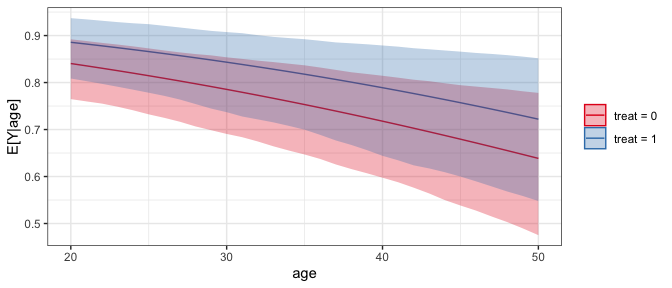
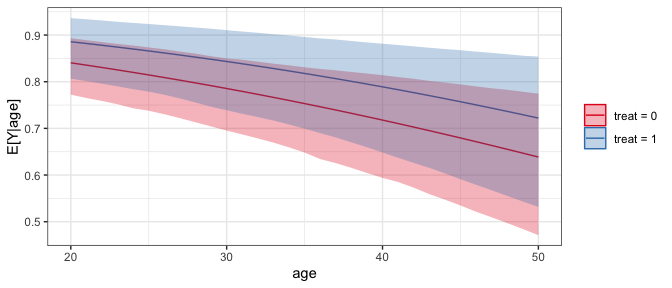
Prep for submission

diff --git a/README.md b/README.md
@@ -5,8 +5,8 @@
 
 <!-- badges: start -->
 
-[![CRAN
-status](https://www.r-pkg.org/badges/version/clarify)](https://CRAN.R-project.org/package=clarify)
+[![](https://r-pkg.org/badges/version/clarify)](https://cran.rstudio.com/package=clarify)
+[![](https://cranlogs.r-pkg.org/badges/clarify)](https://cran.rstudio.com/package=clarify)
 <!-- badges: end -->
 
 `clarify` implements simulation-based inference for computing functions
@@ -62,24 +62,27 @@ set.seed(123)
 sim_coefs <- sim(fit)
 
 # Marginal risk ratio ATT, simulation-based
-sim_est <- sim_ame(sim_coefs, var = "treat", subset = treat == 1,
-                   contrast = "RR", verbose = FALSE)
+sim_est <- sim_ame(sim_coefs,
+                   var = "treat",
+                   subset = treat == 1,
+                   contrast = "RR",
+                   verbose = FALSE)
 
 sim_est
 #> A `clarify_est` object (from `sim_ame()`)
 #>  - Average adjusted predictions for `treat`
 #>  - 1000 simulated values
-#>  - 3 quantities estimated:                  
-#>  E[Y(0)] 0.6830995
-#>  E[Y(1)] 0.7567568
-#>  RR      1.1078280
+#>  - 3 quantities estimated:               
+#>  E[Y(0)] 0.6831
+#>  E[Y(1)] 0.7568
+#>  RR      1.1078
 
 # View the estimates, confidence intervals, and p-values
 summary(sim_est, null = c(`RR` = 1))
 #>         Estimate 2.5 % 97.5 % P-value
-#> E[Y(0)]    0.683 0.587  0.753       .
-#> E[Y(1)]    0.757 0.686  0.813       .
-#> RR         1.108 0.971  1.298    0.13
+#> E[Y(0)]    0.683 0.592  0.754       .
+#> E[Y(1)]    0.757 0.693  0.807       .
+#> RR         1.108 0.979  1.289    0.12
 
 # Plot the resulting sampling distributions
 plot(sim_est)
@@ -153,18 +156,18 @@ sim_est <- sim_apply(sim_coefs, ATT_fun, verbose = FALSE)
 sim_est
 #> A `clarify_est` object (from `sim_apply()`)
 #>  - 1000 simulated values
-#>  - 3 quantities estimated:                  
-#>  E[Y(0)] 0.6830995
-#>  E[Y(1)] 0.7567568
-#>  RR      1.1078280
+#>  - 3 quantities estimated:               
+#>  E[Y(0)] 0.6831
+#>  E[Y(1)] 0.7568
+#>  RR      1.1078
 
 # View the estimates, confidence intervals, and p-values;
 # they are the same as when using sim_ame() above
 summary(sim_est, null = c(`RR` = 1))
 #>         Estimate 2.5 % 97.5 % P-value
-#> E[Y(0)]    0.683 0.587  0.753       .
-#> E[Y(1)]    0.757 0.686  0.813       .
-#> RR         1.108 0.971  1.298    0.13
+#> E[Y(0)]    0.683 0.592  0.754       .
+#> E[Y(1)]    0.757 0.693  0.807       .
+#> RR         1.108 0.979  1.289    0.12
 
 # Plot the resulting sampling distributions
 plot(sim_est, reference = TRUE, ci = FALSE)
@@ -189,10 +192,10 @@ If we want to compute the risk difference, we can do that using
 sim_est <- transform(sim_est, `RD` = `E[Y(1)]` - `E[Y(0)]`)
 summary(sim_est, null = c(`RR` = 1, `RD` = 0))
 #>         Estimate   2.5 %  97.5 % P-value
-#> E[Y(0)]   0.6831  0.5872  0.7528       .
-#> E[Y(1)]   0.7568  0.6859  0.8134       .
-#> RR        1.1078  0.9708  1.2976    0.13
-#> RD        0.0737 -0.0215  0.1757    0.13
+#> E[Y(0)]   0.6831  0.5925  0.7543       .
+#> E[Y(1)]   0.7568  0.6934  0.8067       .
+#> RR        1.1078  0.9789  1.2888    0.12
+#> RD        0.0737 -0.0155  0.1742    0.12
 ```
 
 We can also use `clarify` to compute predictions and first differences
@@ -202,7 +205,8 @@ of `Zelig`’s `setx()` and `setx1()` functions, using `sim_setx()`:
 ``` r
 # Predictions across age and treat at typical values
 # of the other predictors
-sim_est <- sim_setx(sim_coefs, x = list(age = 20:50, treat = 0:1),
+sim_est <- sim_setx(sim_coefs,
+                    x = list(age = 20:50, treat = 0:1),
                     verbose = FALSE)
 
 #Plot of predicted values across age for each value of treat

diff --git a/NEWS.md b/NEWS.md
@@ -1,9 +1,11 @@
 clarify News and Updates
 ======
 
-# `clarify` 0.2.3
+# `clarify` 0.2.2
 
 * Simultaneous confidence bands and p-values are now available by setting `simultaneous = TRUE` in calls to `summary()` or `plot()`.
+
+* `sim_setx()`, `sim_ame()`, and `sim_adrf()` now accept other arguments passed through `...`, which are passed to `marginaleffects::get_predict()` to compute predictions.
 
 * Fixed a bug when using `sim_ame()` after `misim()` with `by` specified. Thanks to Arvind Ilamaran for pointing out this bug.
 
@@ -12,10 +14,6 @@ clarify News and Updates
 * Fixed an issue where sampling from a t-distribution used a slightly incorrect covariance matrix, leading to intervals that could be a tiny bit too wide in small samples.
 
 * Now using a new random number generator that is more tolerant of nearly singular covariance matrices. The removes a dependence on `mvnfast`. Results from prior versions of `clarify` will not be reproducible using this and future versions, even when using the same seed.
-
-# `clarify` 0.2.2
-
-* `sim_setx()`, `sim_ame()`, and `sim_adrf()` now accept other arguments passed through `...`, which are passed to `marginaleffects::get_predict()` to compute predictions.
 
 * Documentation updates.
 
